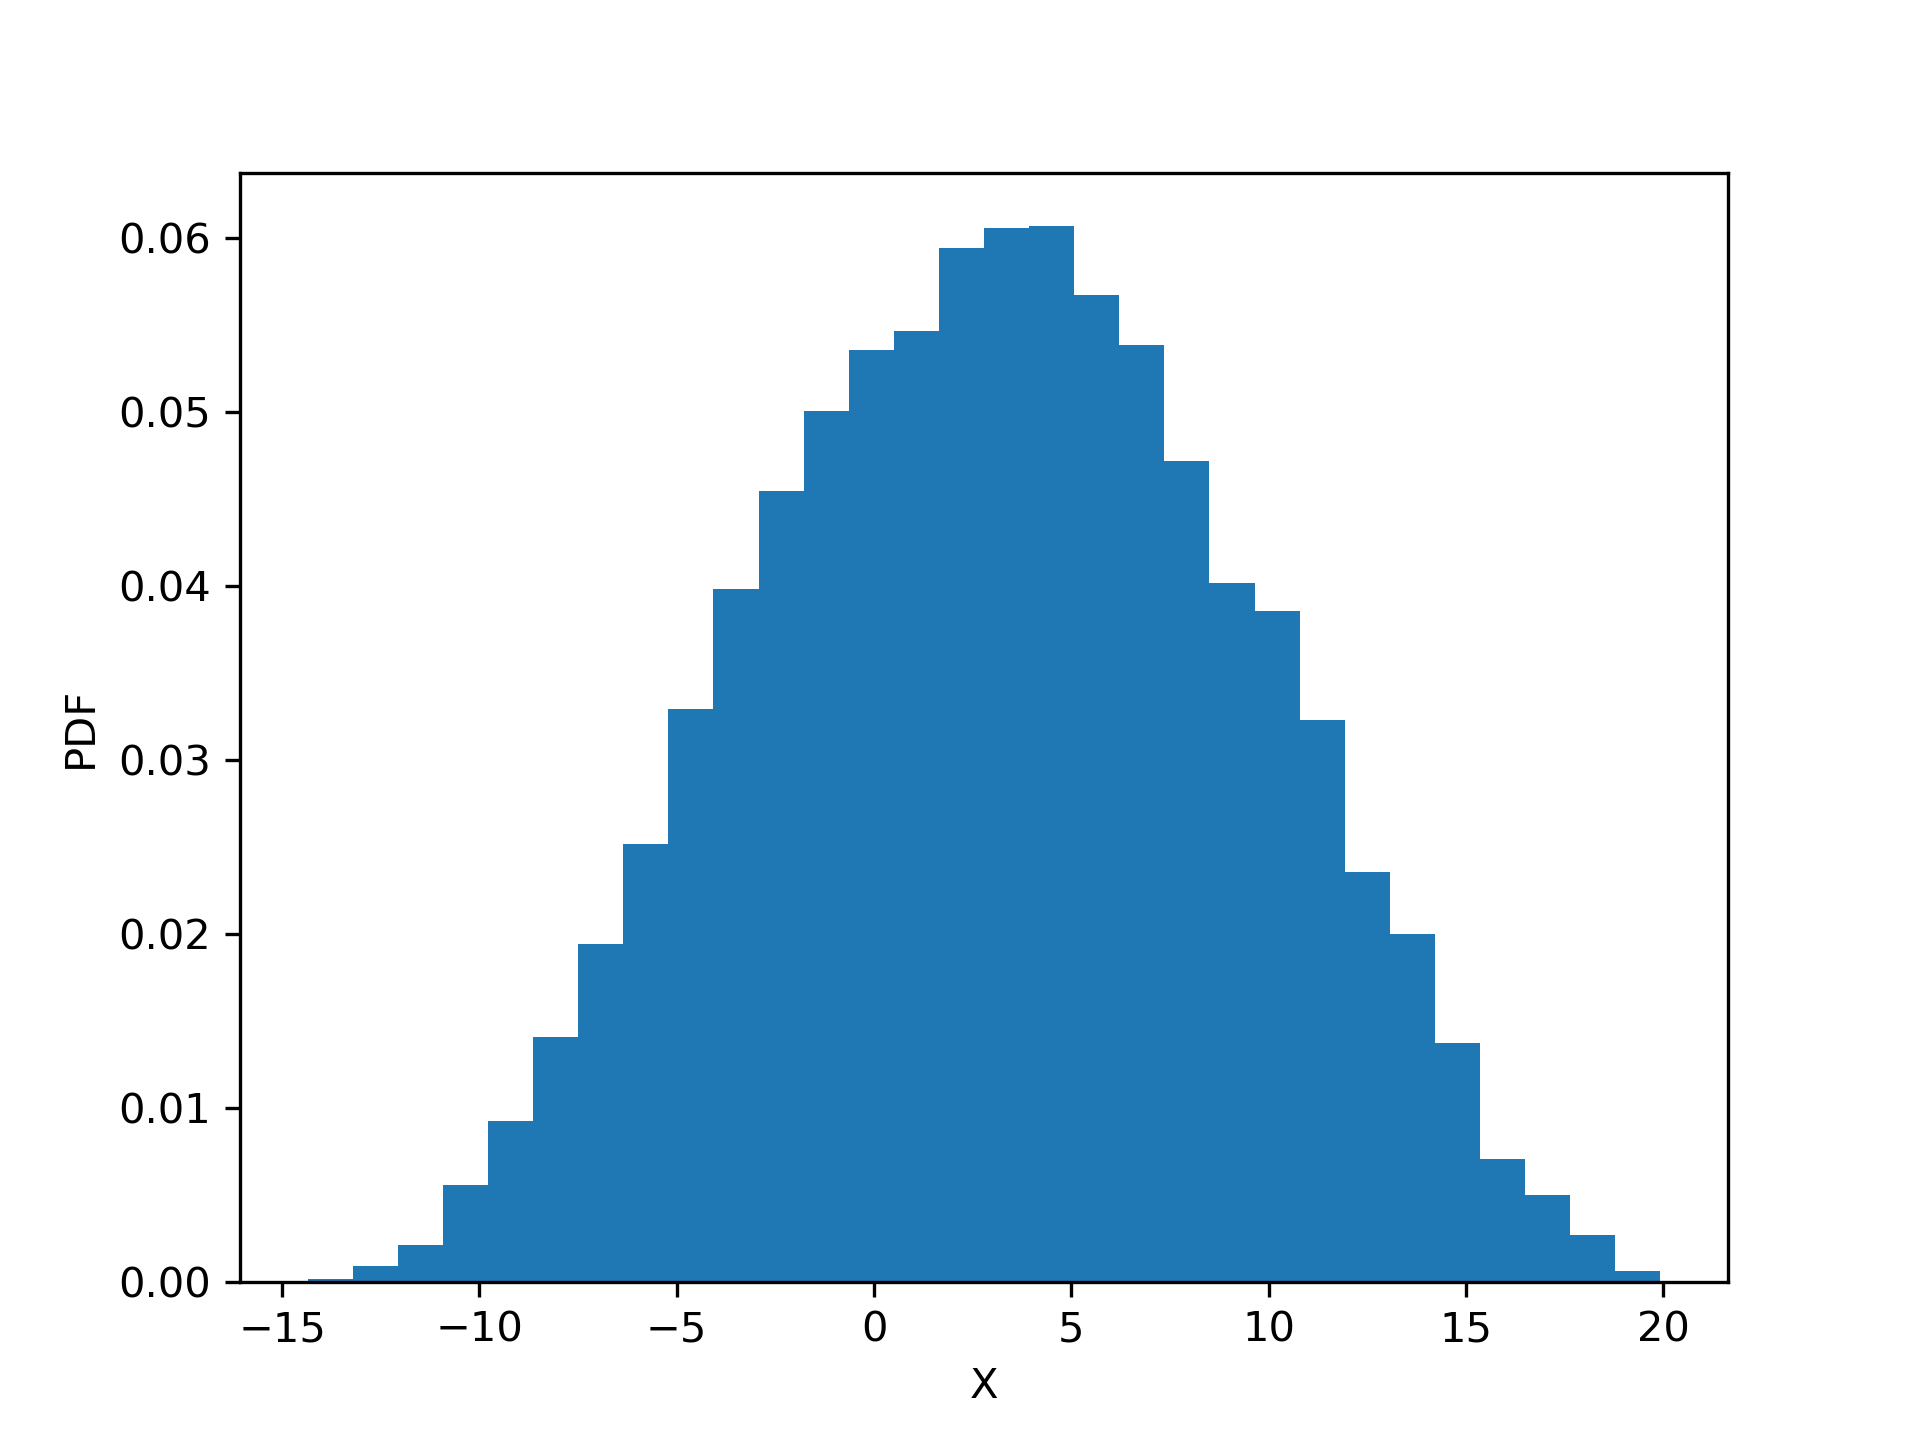
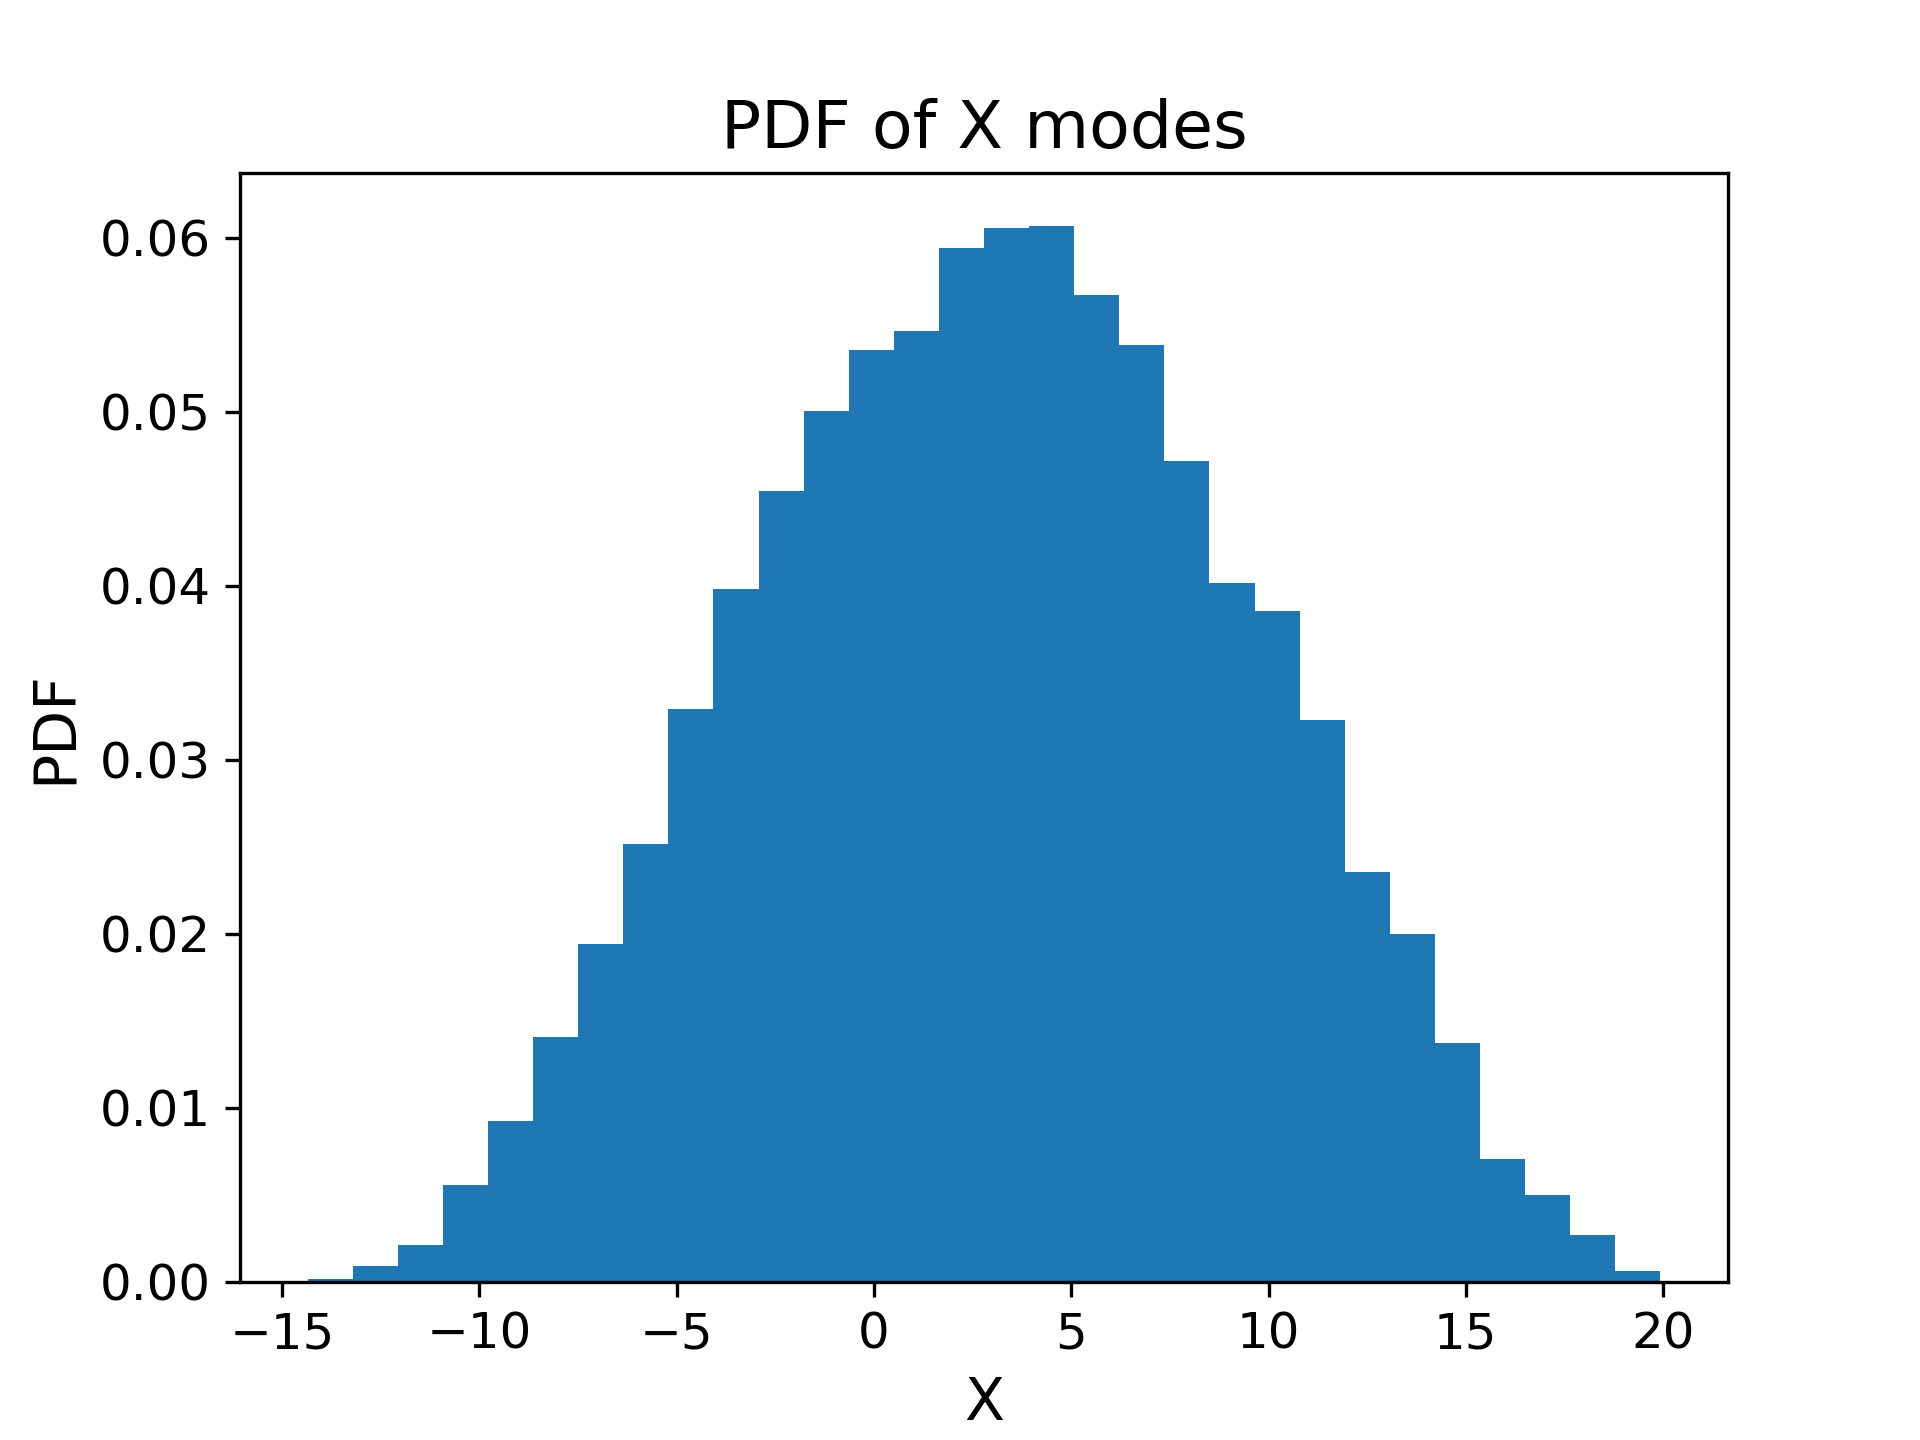
modified plotting routines, fontsize etc, saved new plots

diff --git a/lorenz_plot_flo.py b/lorenz_plot_flo.py
@@ -20,14 +20,14 @@ except:
 ## Choose which Plots
 Model = False
 Histogram = False
-Hovmoeller = True
+Hovmoeller = False
 Y_Forcing = False
 Temp_Corr = False
 Spat_Corr = False
-Energy_cyle = False
+Energy_cyle = True
 
 ### Save Plots
-SavePlot = False
+SavePlot = True
 outdir = "Plots/"
 
 
@@ -35,17 +35,17 @@ K = 8
 J = 32
 F = 18
 h, c, b  = 1, 10, 10
-TU = 10
+TU = 100
 
 
 time = np.arange(0.0, 2000, 1)
 
 
-fX = tables.open_file('data/Lorenz96_XMode_RK_Pert_False.h5', mode='r')
-fY = tables.open_file('data/Lorenz96_YMode_RK_Pert_False.h5', mode='r')
+#fX = tables.open_file('data/Lorenz96_XMode_RK_Pert_False.h5', mode='r')
+#fY = tables.open_file('data/Lorenz96_YMode_RK_Pert_False.h5', mode='r')
 
-#fX = tables.open_file('data/Lorenz96_XMode_RK_Pert_False_TU_100.h5', mode='r')
-#fY = tables.open_file('data/Lorenz96_YMode_RK_Pert_False_TU_100.h5', mode='r')
+fX = tables.open_file('data/Lorenz96_XMode_RK_Pert_False_TU_100.h5', mode='r')
+fY = tables.open_file('data/Lorenz96_YMode_RK_Pert_False_TU_100.h5', mode='r')
 
 X = fX.root.array_X
 Y = fY.root.array_Y
@@ -73,9 +73,11 @@ if Histogram:
     ## plot distribution of X modes
     plt.figure()
     plt.hist(X[:,:K].flatten(),density=1,bins=30)
-    plt.xlabel('X')
-    plt.ylabel('PDF')
-    #plt.title('PDF of X modes')
+    plt.xticks(fontsize=12)
+    plt.yticks(fontsize=12)
+    plt.xlabel('X',fontsize=14)
+    plt.ylabel('PDF',fontsize=14)
+    plt.title('PDF of X modes',fontsize=16)
     if SavePlot:
         plt.savefig(outdir + "Lorenz96_PDF_X_modes_TU_"+str(TU)+".png", dpi = 300)
     #plt.close(fig)
@@ -83,9 +85,11 @@ if Histogram:
     ## plot distribution of Y modes
     plt.figure()
     plt.hist(Y[:,:J*K].flatten(),density=1,bins=30)
-    plt.xlabel('Y')
-    plt.ylabel('PDF')
-    #plt.title('PDF of Y modes')
+    plt.xticks(fontsize=12)
+    plt.yticks(fontsize=12)
+    plt.xlabel('Y',fontsize=14)
+    plt.ylabel('PDF',fontsize=14)
+    plt.title('PDF of Y modes',fontsize=16)
     if SavePlot:
         plt.savefig(outdir + "Lorenz96_PDF_Y_modes_TU_"+str(TU)+".png", dpi = 300)
     #plt.close(fig)
@@ -94,15 +98,20 @@ if Hovmoeller:
     ##hovmoeller diagramm
     plt.figure()
     plt.contourf(X)
-    plt.xlabel("X-Modes")
-    plt.ylabel("Time")
+    plt.xticks(fontsize=12)
+    plt.yticks(fontsize=12)
+    plt.xlabel("X-Modes",fontsize=14)
+    plt.ylabel("Time",fontsize=-14)
+    plt.title('Hovmoeller diagram of X modes',fontsize=16)
     if SavePlot:
         plt.savefig(outdir + "Lorenz96_Hovmoeller_X_modes_TU_"+str(TU)+".png", dpi = 300)
     plt.figure()
     plt.contourf(Y)
-    plt.xlabel("Y-Modes")
-    plt.ylabel("Time")
-
+    plt.xticks(fontsize=12)
+    plt.yticks(fontsize=12)
+    plt.xlabel("Y-Modes",fontsize=14)
+    plt.ylabel("Time",fontsize=14)
+    plt.title('Hovmoeller diagram of Y modes',fontsize=16)
     if SavePlot:
         plt.savefig(outdir + "Lorenz96_Hovmoeller_Y_modes_TU_"+str(TU)+".png", dpi = 300)
 
@@ -112,9 +121,11 @@ if Y_Forcing:
     for k in range(2,K):
         plt.plot(X[:,k],h*c/b * np.sum(Y[:,(J*(k-1)+1):k*J], axis = 1) , marker ='.' , linestyle='None',Color='k')
                         
-    plt.xlabel('X_k')
-    plt.ylabel(r'$\frac{hc}{b}\sum_{i=J(k-1)+1}^{kJ} Y_j$')
-    plt.title('X modes vs forcing of Y modes')
+    plt.xticks(fontsize=12)
+    plt.yticks(fontsize=12)
+    plt.xlabel('X_k',fontsize=14)
+    plt.ylabel(r'$\frac{hc}{b}\sum_{i=J(k-1)+1}^{kJ} Y_j$',fontsize=14)
+    plt.title('X modes vs forcing of Y modes',fontsize=16)
     if SavePlot:
         plt.savefig(outdir + "Lorenz96_Forcing_Y_on_X_modes_TU_"+str(TU)+".png", dpi = 300)
 
@@ -127,9 +138,11 @@ if Temp_Corr:
         ts = pd.Series(Y[:,i])
         ac = ac + np.array(list(map(ts.autocorr,range(0,100))))/(K*J)
     plt.plot(time[0:100], ac)
-    plt.ylabel('Autokorrelation')
-    plt.xlabel('time lag')
-    plt.title('Temporal Autocorrelation of Y modes')
+    plt.xticks(fontsize=12)
+    plt.yticks(fontsize=12)
+    plt.ylabel('Autokorrelation',fontsize=14)
+    plt.xlabel('time lag',fontsize=14)
+    plt.title('Temporal Autocorrelation of Y modes',fontsize=16)
     if SavePlot:
         plt.savefig(outdir + "Lorenz96_TempCorr_Y_modes_TU_"+str(TU)+".png", dpi = 300)
 
@@ -142,9 +155,11 @@ if Temp_Corr:
         ts = pd.Series(X[:,i])
         ac = ac + np.array(list(map(ts.autocorr,range(0,100))))/(K)
     plt.plot(time[0:100], ac)
-    plt.ylabel('Autokorrelation')
-    plt.xlabel('time lag')
-    plt.title('Temporal Autocorrelation of X modes')
+    plt.xticks(fontsize=12)
+    plt.yticks(fontsize=12)
+    plt.ylabel('Autokorrelation',fontsize=14)
+    plt.xlabel('time lag',fontsize=14)
+    plt.title('Temporal Autocorrelation of X modes',fontsize=16)
     if SavePlot:
         plt.savefig(outdir + "Lorenz96_TempCorr_X_modes_TU_"+str(TU)+".png", dpi = 300)
 
@@ -183,7 +198,6 @@ if Spat_Corr:
 
 
 if Energy_cyle:
-    plt.figure()
     E_X = []
     E_Y = []
     E = []
@@ -206,24 +220,40 @@ if Energy_cyle:
         M.append(m)
         dtE.append(-ex - c*ey + F * mx)
     
-    plt.plot(E_X)
-    plt.plot(E_Y)
-    plt.plot(M_X)
-    plt.plot(M_Y)
+    plt.figure()
+    plt.xticks(fontsize=12)
+    plt.yticks(fontsize=12)
+    plt.plot(E_X,label='E_X')
+    plt.plot(E_Y,label='E_Y')
+    plt.title('Energy terms',fontsize=16)
+    plt.legend()
     if SavePlot:
-        plt.savefig(outdir + "Lorenz96_Energy_E_modes.png_TU_"+str(TU)+".png", dpi = 300)
+        plt.savefig(outdir + "Lorenz96_Energy_E_modes_TU_"+str(TU)+".png", dpi = 300)
+
+
+    plt.figure()
+    plt.xticks(fontsize=12)
+    plt.yticks(fontsize=12)
+    plt.plot(M_X,label='M_X')
+    plt.plot(M_Y,label='M_Y')
+    plt.title('Momentum terms',fontsize=16)
+    plt.legend()
+    if SavePlot:
+        plt.savefig(outdir + "Lorenz96_Momentum_M_modes_TU_"+str(TU)+".png", dpi = 300)
 
     
     plt.figure()
+    plt.xticks(fontsize=12)
+    plt.yticks(fontsize=12)
     plt.plot(dtE)
-    if SavePlot:
-        plt.savefig(outdir + "Lorenz96_Energy_dtE.png_TU_"+str(TU)+".png", dpi = 300)
+    #if SavePlot:
+    #    plt.savefig(outdir + "Lorenz96_Energy_dtE.png_TU_"+str(TU)+".png", dpi = 300)
 
     
     plt.figure()
     plt.plot(E)
-    if SavePlot:
-        plt.savefig(outdir + "Lorenz96_Energy_E.png_TU_"+str(TU)+".png", dpi = 300)
+    #if SavePlot:
+    #    plt.savefig(outdir + "Lorenz96_Energy_E.png_TU_"+str(TU)+".png", dpi = 300)
 
 
 #

diff --git a/Lorenz96_plot_loop_t.py b/Lorenz96_plot_loop_t.py
@@ -70,8 +70,8 @@ for i in range(0,nt-1):
 plt.figure()
 plt.loglog(dt,error[:,0])
 plt.title('Error Growth of X Modes',fontsize=16)
-#plt.xticks(fontsize=10)
-#plt.yticks(fontsize=10)
+plt.xticks(fontsize=12)
+plt.yticks(fontsize=12)
 plt.xlabel('Timestep',fontsize=14)
 plt.ylabel('mean error wrt integration with smalllest timestep',fontsize=14)
 plt.savefig('Plots/Lecture_03_error_growth_x_modes.pdf')
@@ -79,6 +79,8 @@ plt.savefig('Plots/Lecture_03_error_growth_x_modes.pdf')
 plt.figure()
 plt.loglog(dt,error[:,1])
 plt.title('Error Growth of Y Modes',fontsize=16)
+plt.xticks(fontsize=12)
+plt.yticks(fontsize=12)
 plt.xlabel('Timestep',fontsize=14)
 plt.ylabel('mean error wrt integration with smalllest timestep',fontsize=14)
 plt.savefig('Plots/Lecture_03_error_growth_y_modes.pdf')
